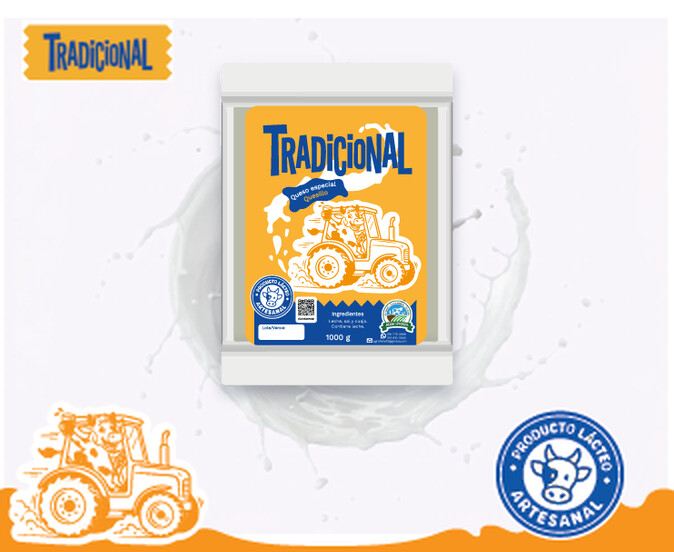
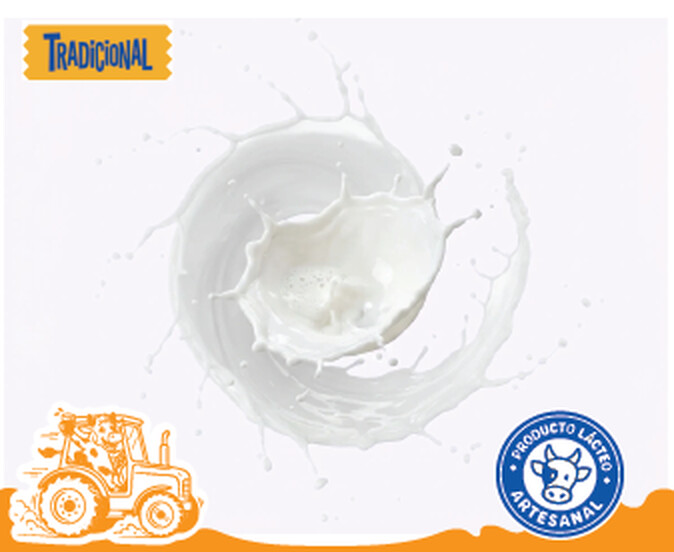
Foto del queso especial 1000 g va en el queso campesino; quesillo queda sin empaque

Changed region(s): [[0.3116, 0.154, 0.6855, 0.7391]]

diff --git a/src/data/fotos.ts b/src/data/fotos.ts
@@ -6,12 +6,12 @@ import type { ImageMetadata } from 'astro';
  * Una segunda versión del producto (p. ej. el snack con bocadillo) va en <slug>-2.jpg.
  *
  * Para cambiar una foto: volver a componerla con el fondo de la diseñadora y reemplazar el archivo.
- * PENDIENTE: foto del queso campesino (por ahora muestra solo el fondo con el ícono provisional).
+ * PENDIENTE: foto del quesillo (por ahora muestra solo el fondo con el ícono provisional).
  */
 const archivos = import.meta.glob<ImageMetadata>('../assets/productos/tarjetas/*.jpg', { eager: true, import: 'default' });
 
 /** Productos cuya imagen aún no incluye el empaque. */
-const sinEmpaque = new Set(['queso-campesino']);
+const sinEmpaque = new Set(['quesillo']);
 
 export function fotosDe(slug: string): ImageMetadata[] {
   return Object.entries(archivos)

diff --git a/DESIGN.md b/DESIGN.md
@@ -145,7 +145,7 @@ Píldora con texto y flecha en un círculo de 38px. Variantes: primario azul (te
 Única etiqueta de producto: las letras oficiales en imagen sobre azul (Pal' Arranque) o naranja (Tradicional). En tarjetas y fichas van como **cinta con borde triangulado** arriba y abajo (`cinta`), esquina superior izquierda de la imagen; en el navbar, como píldora. No hay etiqueta de texto "100% Artesanal": esa información la da el sello.
 
 ### Imagen de producto compuesta
-Cada producto lleva una imagen ya compuesta en `src/assets/productos/tarjetas/<slug>.jpg`: fondo de ingredientes de la diseñadora (guayaba y quesillo, frutas, granola, leche), etiqueta de línea, personaje, ola de color, sello y la foto del empaque encima. Se muestra completa (proporción 337:276) en tarjetas, en el encabezado y en la ficha de la página de producto. Un producto con dos versiones usa `<slug>-2.jpg` y un selector en el encabezado. El sello dibujado en la imagen tiene encima un botón invisible que abre el visor. Sin foto del empaque (queso campesino) se muestra el fondo con el ícono provisional.
+Cada producto lleva una imagen ya compuesta en `src/assets/productos/tarjetas/<slug>.jpg`: fondo de ingredientes de la diseñadora (guayaba y quesillo, frutas, granola, leche), etiqueta de línea, personaje, ola de color, sello y la foto del empaque encima. Se muestra completa (proporción 337:276) en tarjetas, en el encabezado y en la ficha de la página de producto. Un producto con dos versiones usa `<slug>-2.jpg` y un selector en el encabezado. El sello dibujado en la imagen tiene encima un botón invisible que abre el visor. Sin foto del empaque (quesillo) se muestra el fondo con el ícono provisional.
 
 ### Sello artesanal (`SelloArtesanal`, `SelloLightbox`)
 Sello redondo "Producto Lácteo Artesanal" en la esquina inferior derecha de la imagen de cada tarjeta y de la ficha del producto (no en el termo). Es un botón: al hacer clic se abre en grande en un visor modal.
